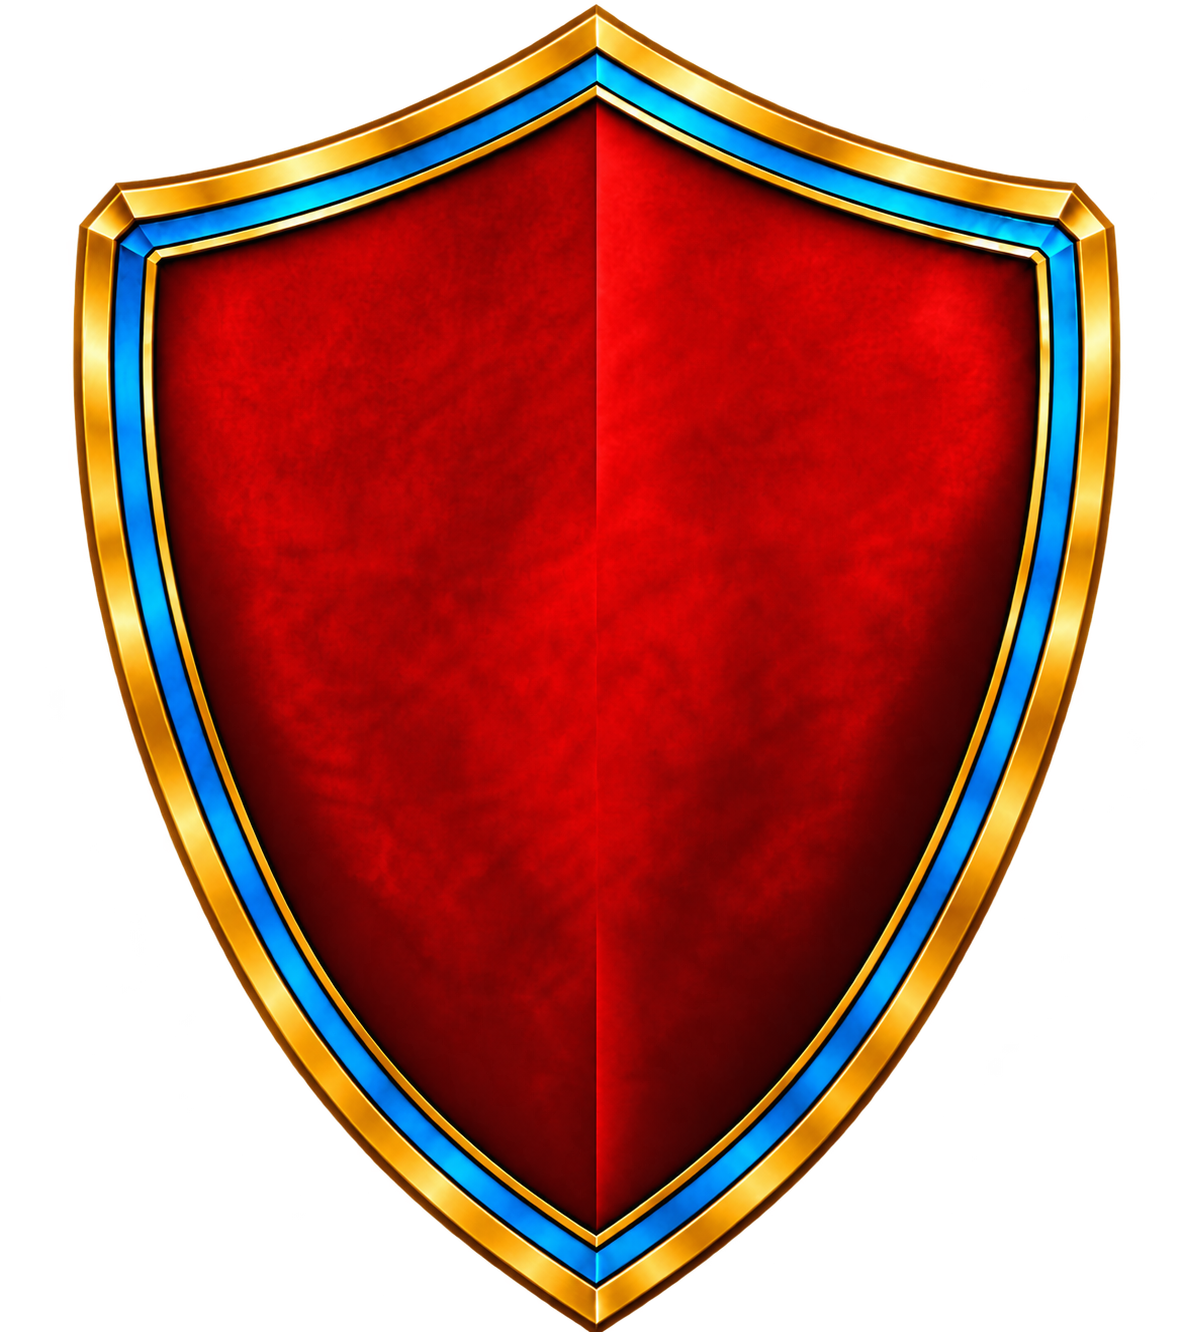
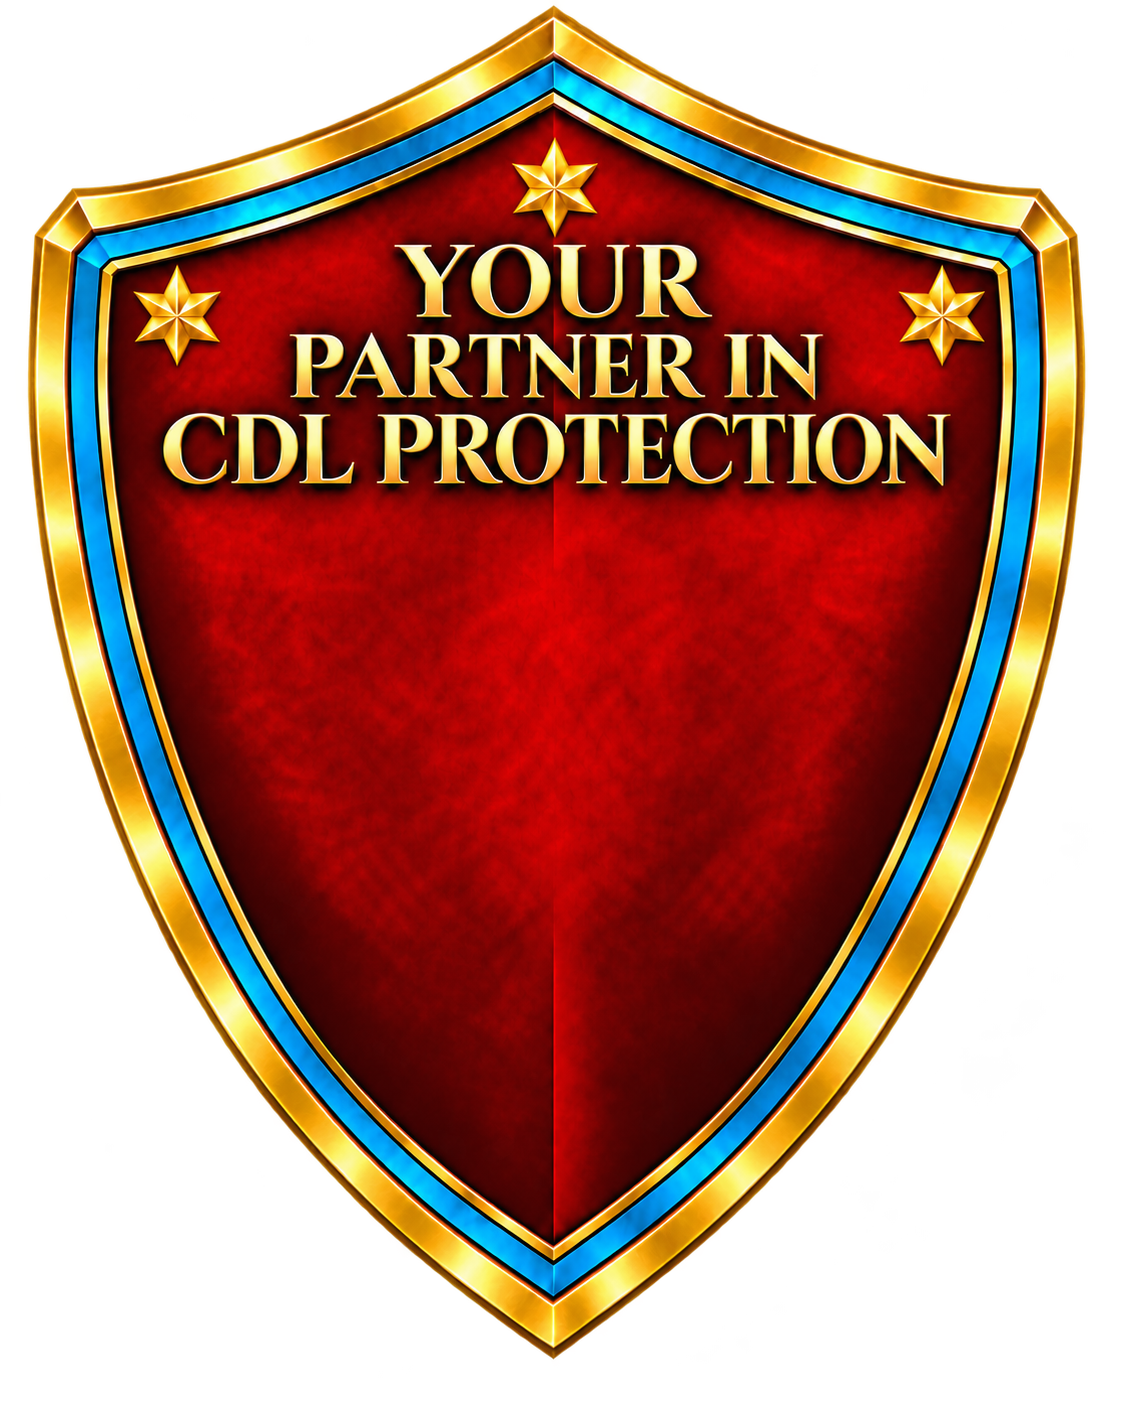
working now

diff --git a/client/src/style/AnimatedShield.css b/client/src/style/AnimatedShield.css
@@ -29,7 +29,7 @@
 .animated-shield-dragon {
   position: absolute;
 
-  left: 50.5%;
+  left: 49.5%;
   top: 54%;
 
   width: 34%;
@@ -552,56 +552,6 @@
 }
 
 
-/* =============================================
-   SHIELD TOP TITLE
-============================================= */
-
-.animated-shield-title {
-  position: absolute;
-  left: 50.5%;
-  top: 26.8%;
-  width: 58%;
-  transform: translate(-50%, -50%);
-  z-index: 4;
-
-  display: flex;
-  flex-direction: column;
-  align-items: center;
-  justify-content: center;
-
-  text-align: center;
-  pointer-events: none;
-}
-
-.animated-shield-title span {
-  display: block;
-  color: #f6e3a4;
-  font-family: "Cinzel", Georgia, serif;
-  font-weight: 800;
-  line-height: 0.92;
-  letter-spacing: -0.3px;
-  white-space: nowrap;
-
-  text-shadow:
-    0 1px 0 #bd6716,
-    0 2px 0 #5c2600,
-    0 3px 3px rgba(0,0,0,.72),
-    0 0 3px rgba(255,210,100,.22);
-}
-
-.animated-shield-title span:nth-child(1) {
-  font-size: clamp(18px, 5.4%, 27px);
-  margin-bottom: 2px;
-}
-
-.animated-shield-title span:nth-child(2) {
-  font-size: clamp(16px, 4.9%, 24px);
-  margin-bottom: 2px;
-}
-
-.animated-shield-title span:nth-child(3) {
-  font-size: clamp(15px, 4.6%, 22px);
-}
 
 /* Keep the title compact and inside the shield on smaller screens */
 @media (max-width: 900px) {

diff --git a/client/src/components/common/AnimatedShield.jsx b/client/src/components/common/AnimatedShield.jsx
@@ -210,33 +210,9 @@ export default function AnimatedShield() {
           fetchPriority="high"
         />
 
-        <div className="animated-shield-mark-stars" aria-hidden="true">
-          <img
-            src="/images/star.png"
-            alt=""
-            className="shield-mark-star shield-mark-star-left"
-            decoding="async"
-          />
-          <img
-            src="/images/star.png"
-            alt=""
-            className="shield-mark-star shield-mark-star-center"
-            decoding="async"
-          />
-          <img
-            src="/images/star.png"
-            alt=""
-            className="shield-mark-star shield-mark-star-right"
-            decoding="async"
-          />
-        </div>
+        
 
-        <div className="animated-shield-title" aria-hidden="true">
-          <span>YOUR</span>
-          <span>PARTNER IN</span>
-          <span>CDL PROTECTION</span>
-        </div>
-
+       
         <img
           ref={targetRef}
           src={LOGO}

diff --git a/client/src/style/ShieldWordmarkArrival.css b/client/src/style/ShieldWordmarkArrival.css
@@ -44,7 +44,7 @@
 
   /* Optical alignment: move only the CDL Defense lettering slightly left.
      The star stays on the shield's exact center line. */
-  transform: translateX(4%);
+  transform: translateX(2%);
 }
 
 /* Star between CDL and Defense */
@@ -52,7 +52,7 @@
 .shield-wordmark-star-holder {
   position: absolute;
 
-  left: 51.5%;
+  left: 48%;
   top: 50%;
 
   width: 10%;
